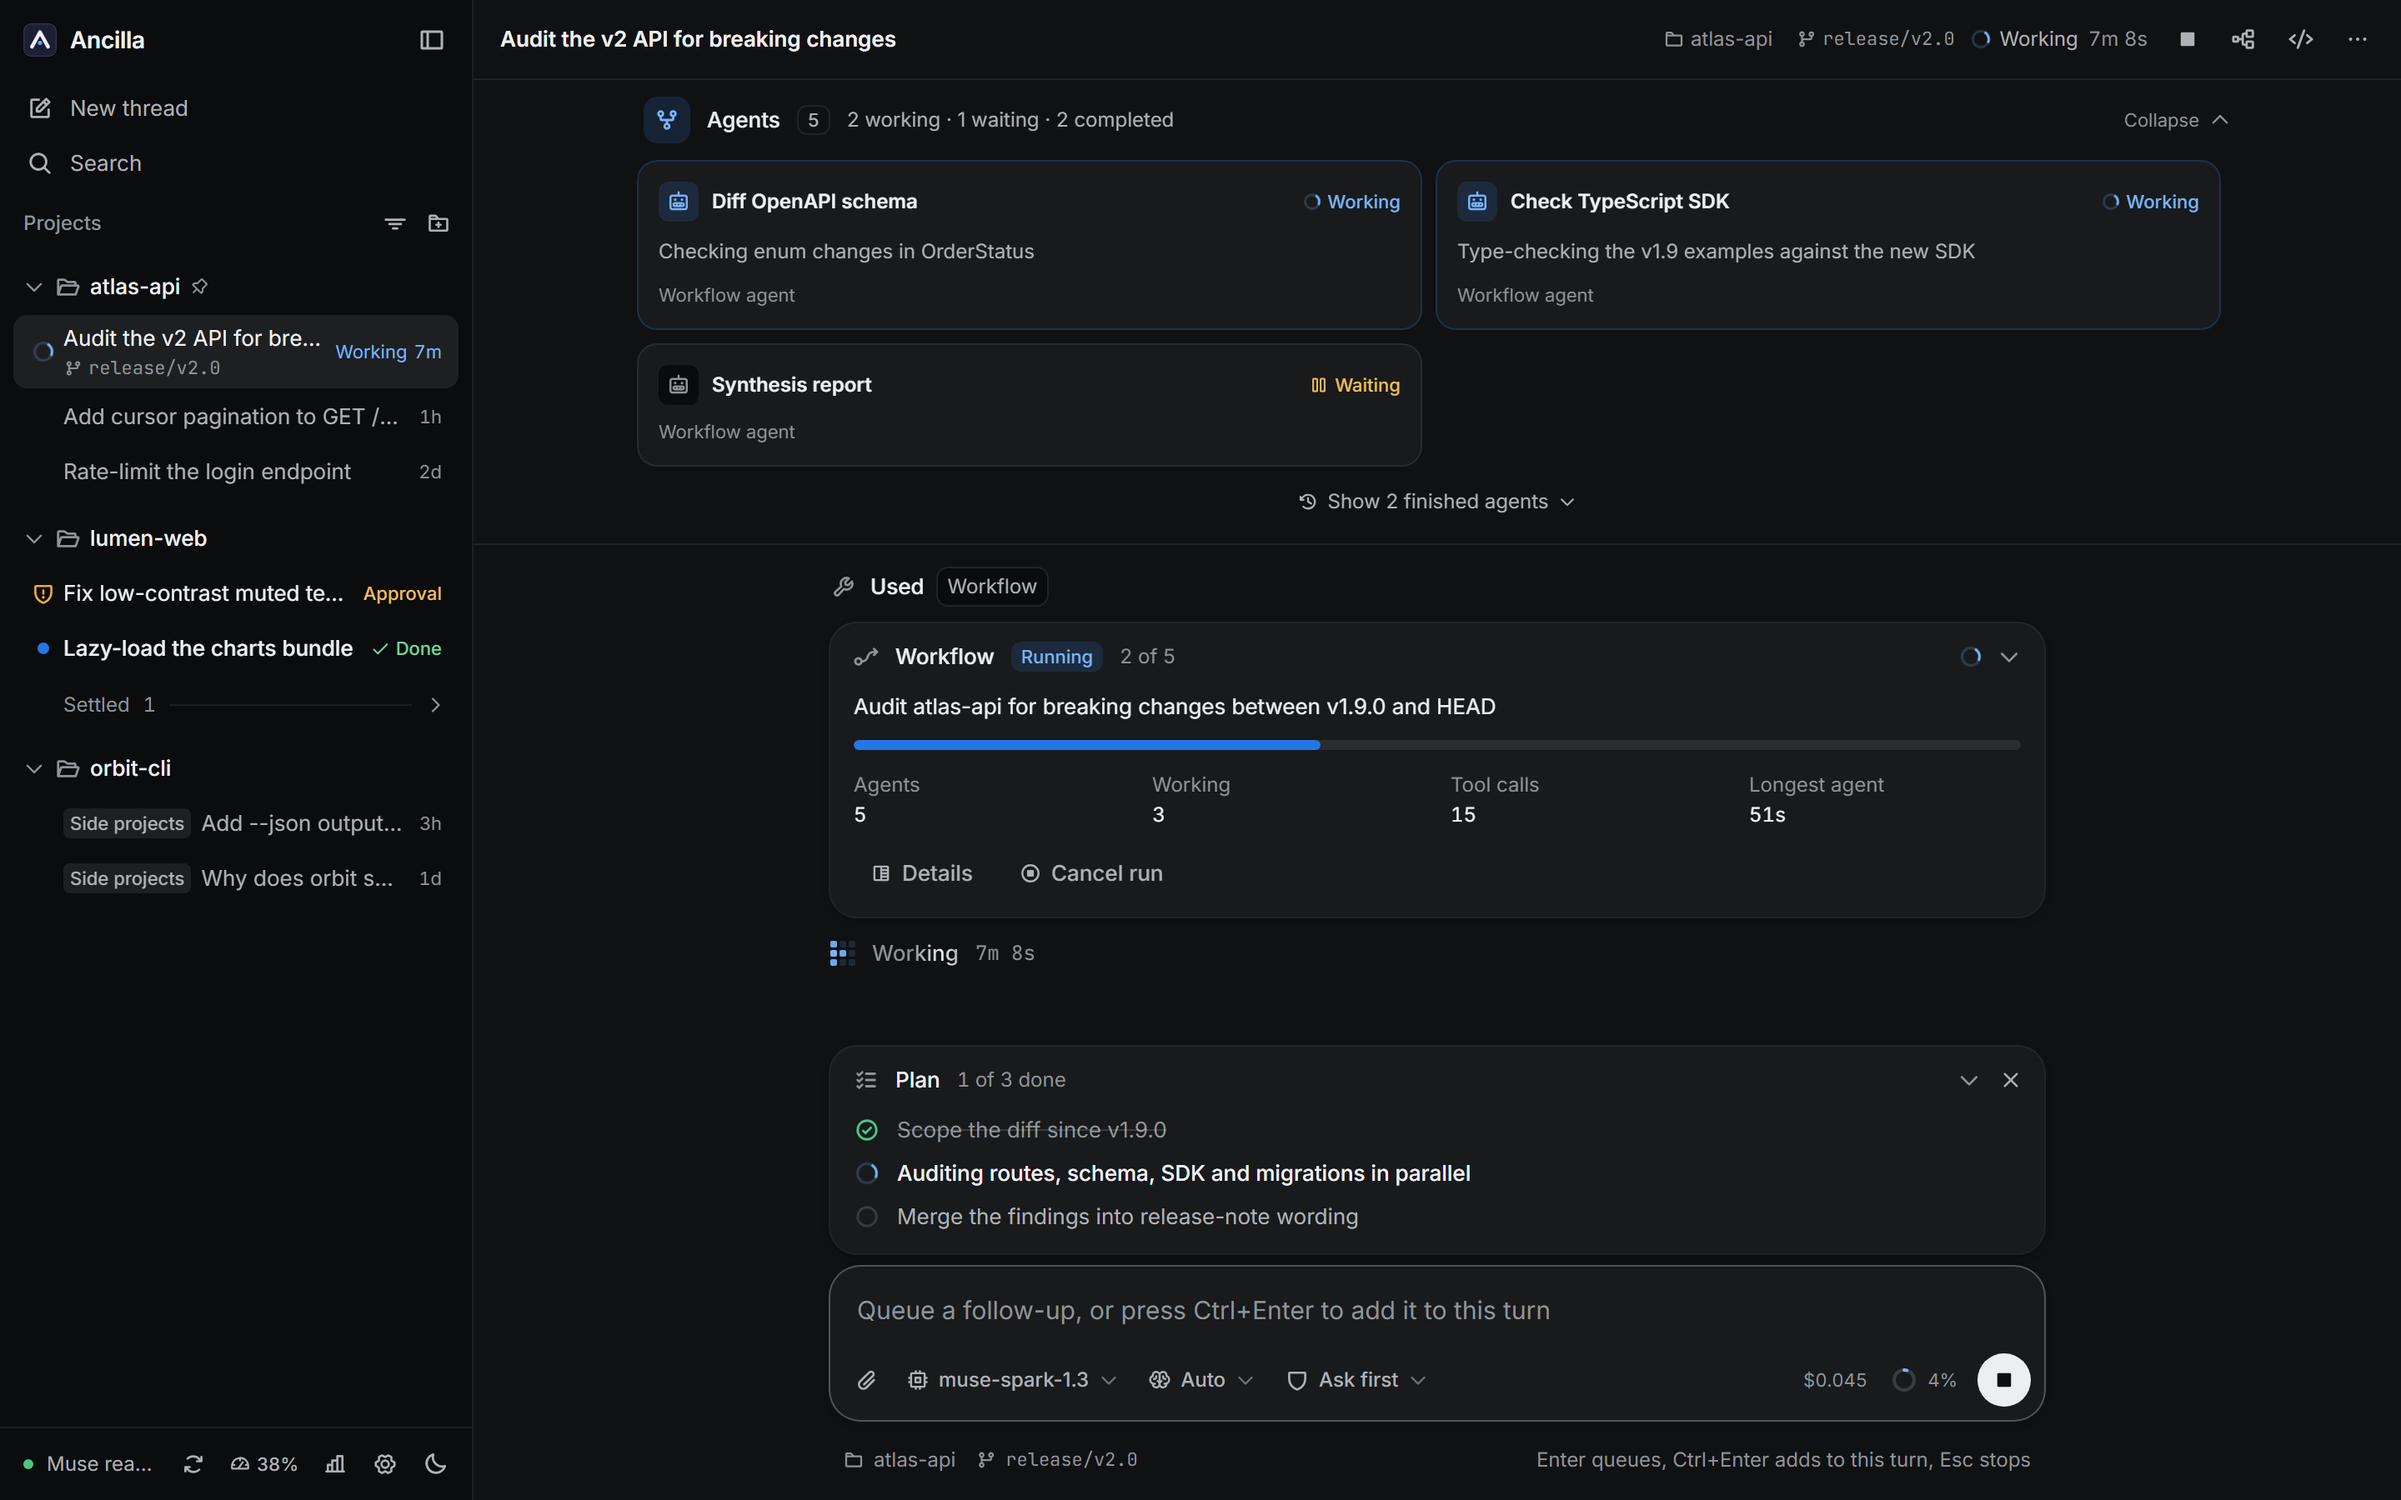
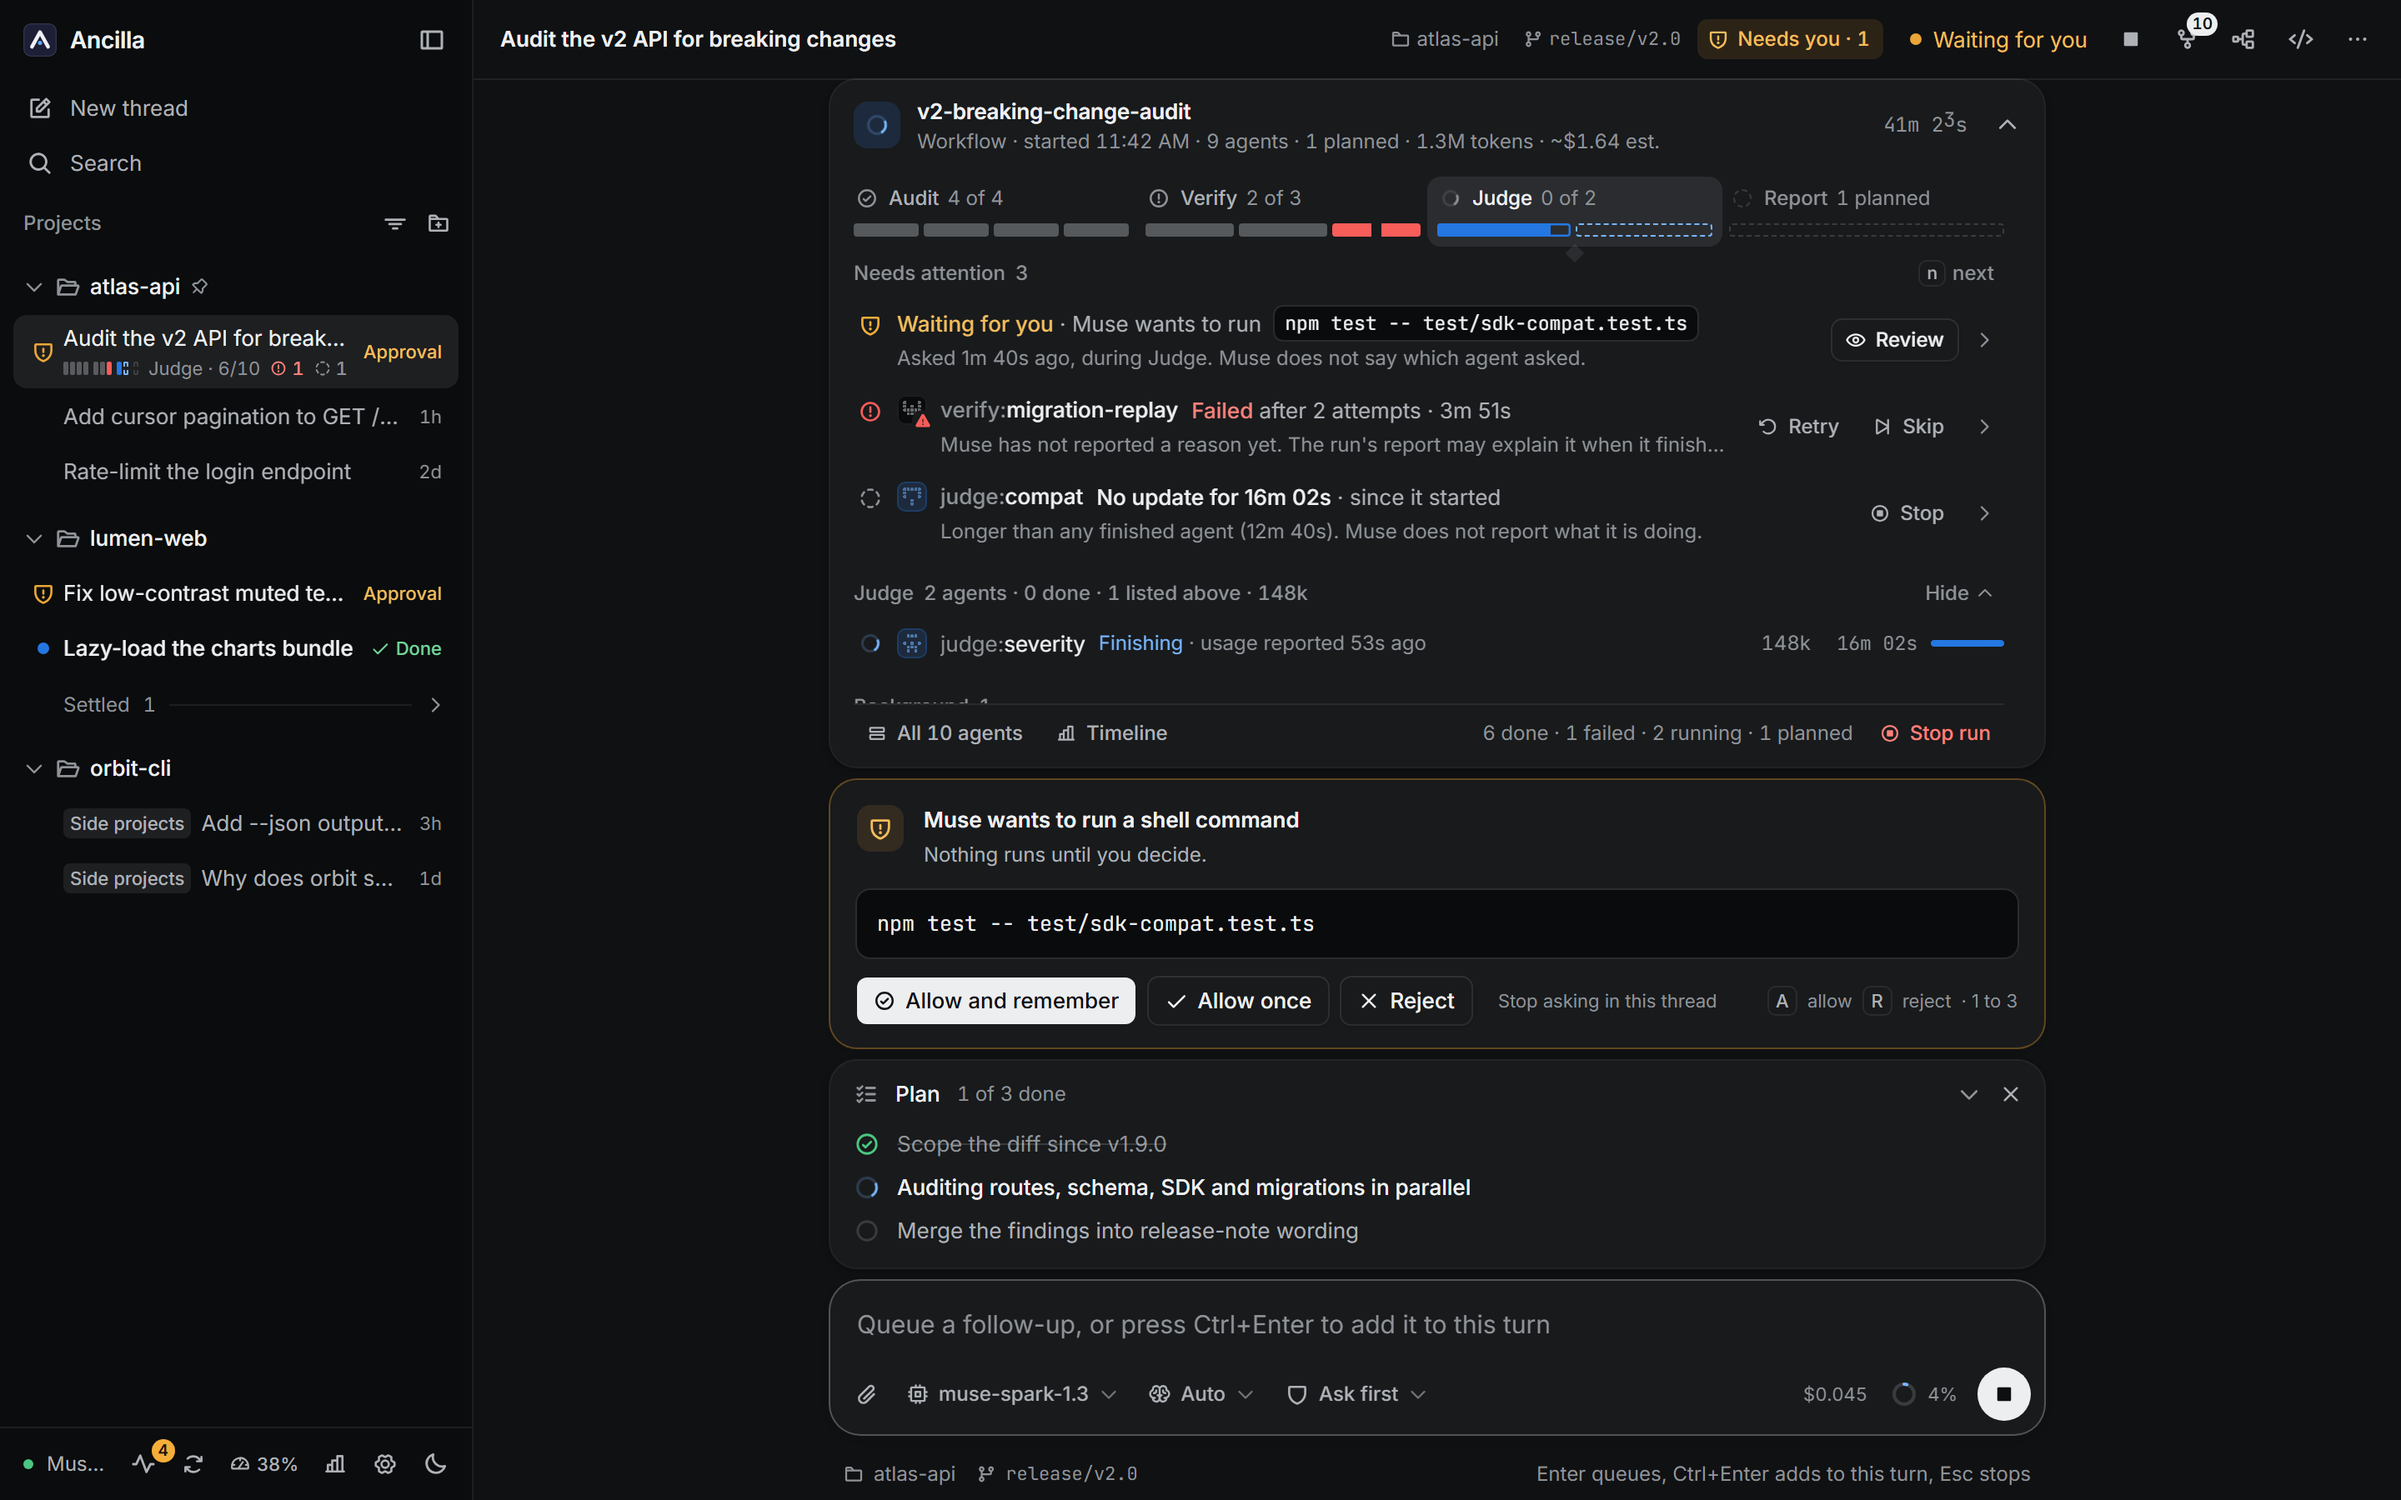
Show the Swarm card, panel and report in the README
The screenshots come from the demo's swarm=running and swarm=done
scenarios; the feature list describes the surfaces that replaced the
Agents panel and the workflow card, and the thread titles' new default.

diff --git a/README.md b/README.md
@@ -52,19 +52,27 @@ panel for native subagents and workflows, and fixes for Windows and WSL; see [NO
 - **Session recovery that never resends work.** When Muse's live feed stalls, Ancilla keeps the thread moving by reading
   its saved progress, and says so in the thread. It never resends a prompt, never resumes a running turn and never
   restarts delegation to catch up. [How it works](docs/muse-recovery.md)
-- **An Agents panel in every thread** for native Muse subagents and workflow children: how many there are, which are
-  working, waiting, done or failed, with their tasks and metrics when Muse reports them.
-  [Details](docs/agent-activity.md)
+- **A Swarm card in every thread** that runs native Muse subagents, workflow children or background tasks. One line
+  answers whether everything is fine, what needs you and how far along the run is; the rows that need attention
+  (waiting on you, failed, no update) carry the reason and the action; each agent has its own mark. A docked
+  **Swarm panel** adds a timeline of the run, a filterable roster, an inspector per agent and keyboard navigation;
+  a cross-thread **Activity** drawer (Ctrl+Shift+A) lists everything running and everything waiting on you; a
+  finished run becomes a report with highlights and where the time went. Nothing is inferred: what Muse does not
+  report says so. [Details](docs/agent-activity.md)
 - **No duplicate prompt bubbles.** A prompt with attachments shows once, not once for Muse's saved copy and once for the
   local preview. [Details](docs/prompt-echo-reconciliation.md)
-- **Local thread titles.** An opt-in `runtime.json` option keeps titles in Ancilla's database instead of sending them to
-  Muse, which works around a Muse 1.4.0 bug that breaks a later workflow's event log.
+- **Thread titles stay local.** Titles live in Ancilla's database and are not sent to Muse, which works around a Muse
+  1.4.0 bug where a renamed session breaks a later workflow's event log; sharing them is a `runtime.json` opt-in.
   [Configuration](docs/muse-recovery.md#local-thread-titles)
 - **Windows and WSL fixes:** projects opened from `\\wsl.localhost\<distro>\...`, an existing `muse login` recognised
   on Windows and in WSL, and a per-machine `runtime.json` that pins the runtime, the distro and the `muse` path and
   forwards environment variables into WSL (for example a file-based credential store).
 
-![The Agents panel: a native Muse workflow with agents working, waiting and finished, above the workflow card](docs/assets/agents.png)
+![The Swarm card: a native Muse workflow with ten agents in four phases, the rows that need attention first, and the approval it is waiting on](docs/assets/agents.png)
+
+![The Swarm panel beside the thread: the run's timeline, filters, the phase-grouped roster and an agent's inspector](docs/assets/swarm-panel.png)
+
+![A finished run: the report with its highlights and where the time went](docs/assets/swarm-done.png)
 
 ![Starting a thread: recent work per project above the composer](docs/assets/home.png)
 
